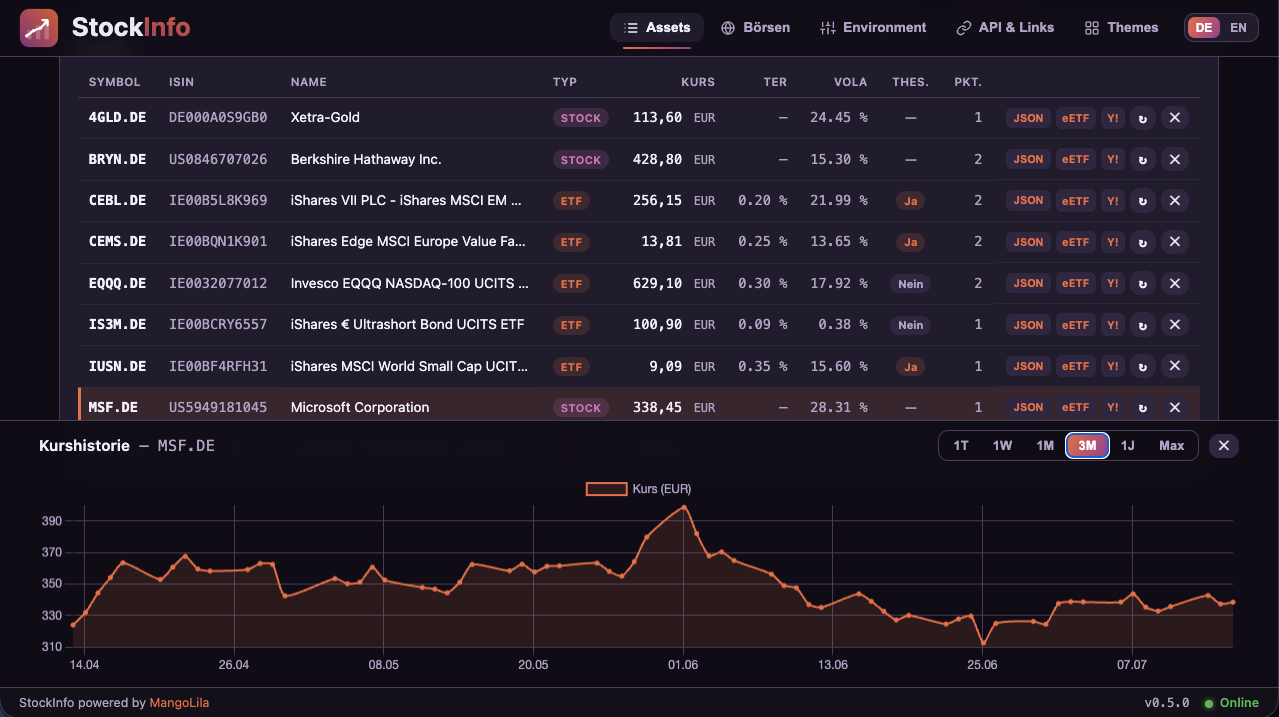
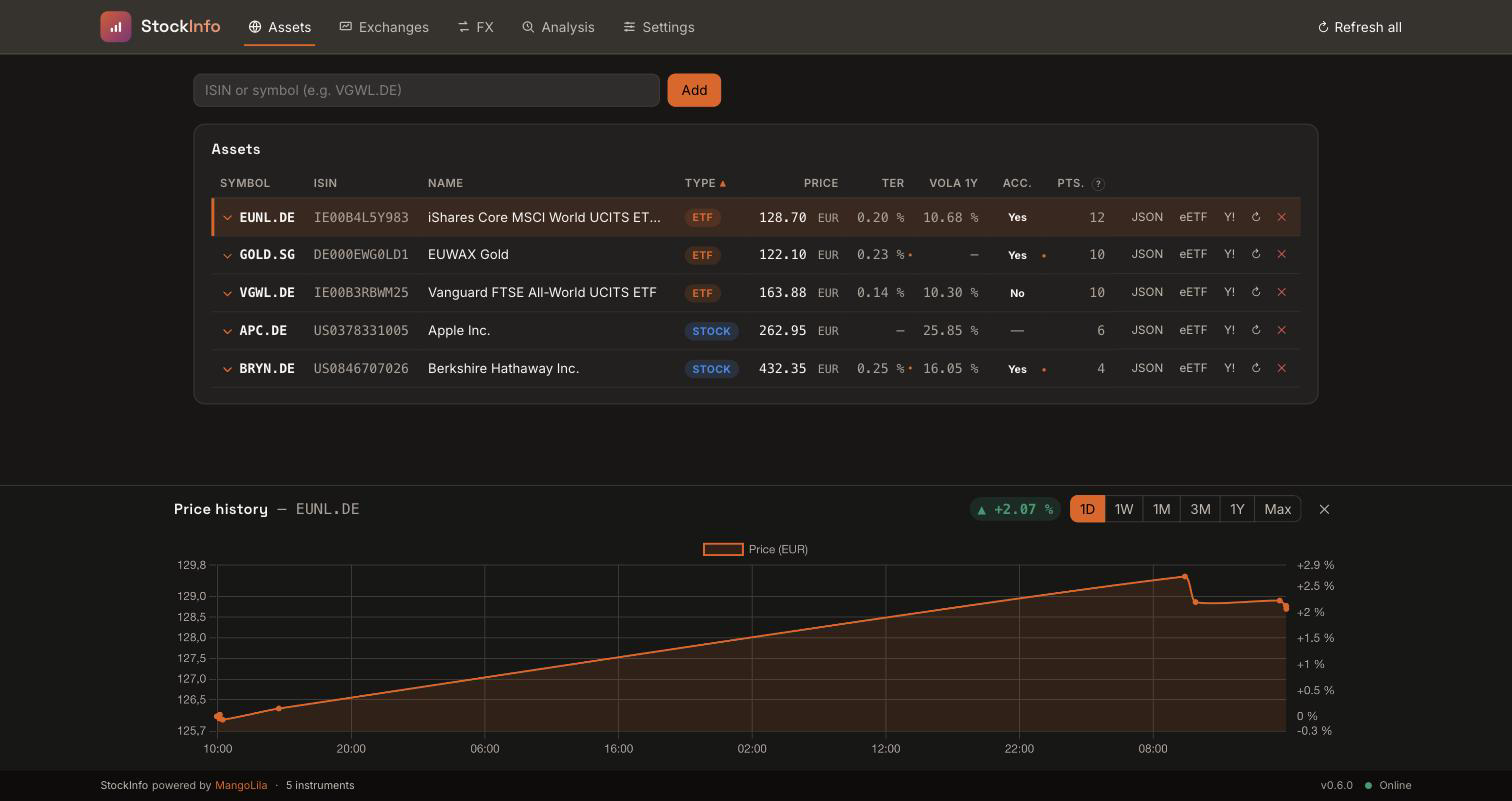
docs: Screenshots und README für 0.6.0 — Oberfläche auf Englisch
Der Dashboard-Screenshot war älter als gedacht: Er zeigte noch die Navigation
von vor dem T-11-Umbau (Environment, API & Links, Themes). Neu aufgenommen mit
der jetzigen Leiste, dem angedockten Chart und v0.6.0 in der Statuszeile;
Swagger ebenso, dort ist `/ready` dazugekommen.

Aufgenommen wird in **englischer** Oberfläche — das Listing im Community
Applications richtet sich nicht an deutschsprachiges Publikum. Die App kann
beides; für den Screenshot zählt die größere Reichweite.

Dazu ein dritter Screenshot: der Detailbereich mit den acht Kennzahlen. Das ist
die sichtbarste Neuerung, und weder Tabelle noch Swagger zeigen sie. Das
CA-Template listet Screenshots einzeln, es kann ihn also mitnehmen. Die Datei
heißt `detail-area.png` und nicht `detailbereich.png` — ein deutscher
Dateiname in einem englischen Listing wäre derselbe Bruch.

Im README fehlte die Pflege von Hand in der Feature-Liste komplett — dabei ist
sie der Grund für den ganzen Detailbereich. Dazu ein kurzer „What's new"-Block
für 0.6.0: die acht Kennzahlen, die überlebenden Metadaten, der reparierte
Duplikat-Merge, `/ready` und der strengere API-Vertrag.

Claude-Session: https://claude.ai/code/session_01Ei1vw94Hvdv1HoMxsfczNq

diff --git a/README.md b/README.md
@@ -13,6 +13,27 @@ Yahoo Finance, JSON export).
 
 ![StockInfo dashboard](unraid/screenshots/dashboard.png)
 
+### What's new in 0.6.0
+
+- **All eight ETF metrics are maintainable by hand** — provider, replication,
+  fund size, fund domicile and fund currency join TER, volatility and
+  accumulating. Maintained in an expandable detail area per row, not in the
+  table cell.
+
+  ![Detail area](unraid/screenshots/detail-area.png)
+
+- **Stored metrics survive an outage.** A failed justETF request no longer wipes
+  what was already there — "asked and empty" is now distinguishable from "could
+  not ask". `METADATA_TTL_DAYS` finally does what it always claimed: justETF is
+  scraped once per cycle instead of on every quote.
+- **Merging duplicate instruments no longer loses data.** Manual values and the
+  daily-sync watermark move to the surviving row instead of being cascaded away.
+- **`/ready`** — a readiness probe that actually touches the database; `/health`
+  stays cheap. The Docker healthcheck now uses `/ready`.
+- **Stricter API contract** — symbols and time ranges are validated (`422`
+  instead of a wrong result), and an unresolvable ISIN answers `404` instead of
+  `502`.
+
 ## Contents
 
 - [What can it do?](#what-can-it-do)
@@ -42,8 +63,12 @@ Yahoo Finance, JSON export).
   real **end-of-day closes** (EOD from Yahoo, cached incrementally — each request
   only fetches the missing delta).
 - **Rich data** — besides price and timestamp: name, currency, volume, volatility,
-  and for ETFs TER, provider, replication method, fund size and
-  accumulating/distributing.
+  and for ETFs TER, provider, replication method, fund size, fund domicile,
+  fund currency and accumulating/distributing.
+- **Fill the gaps yourself** — whatever justETF does not deliver can be entered by
+  hand in the expandable detail area of a row. The source always wins: a manual
+  value fills a gap, it never overwrites. It stays stored while the source covers
+  it and applies again as soon as the source goes quiet.
 - **Dashboard** — overview with column sorting, docked price chart, 8 themes,
   German/English UI, exchange legend, profile links, JSON export.
 
@@ -353,7 +378,7 @@ app/                    # FastAPI backend
 dashboard/              # Vue dashboard (standalone app)
 tests/                  # backend tests (pytest)
 docker/                 # Dockerfile, build.sh (single-image build)
-unraid/screenshots/     # dashboard + swagger screenshots (README + CA template)
+unraid/screenshots/     # dashboard, detail area + swagger (README + CA template)
 Makefile                # service start/stop (make help)
 ```
 
